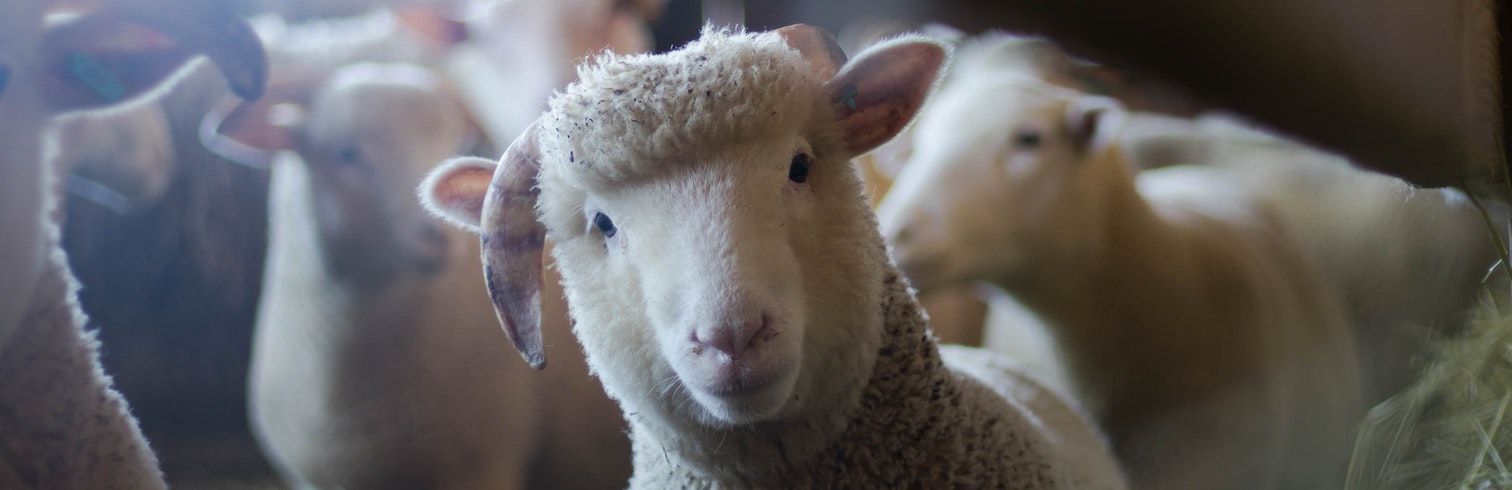
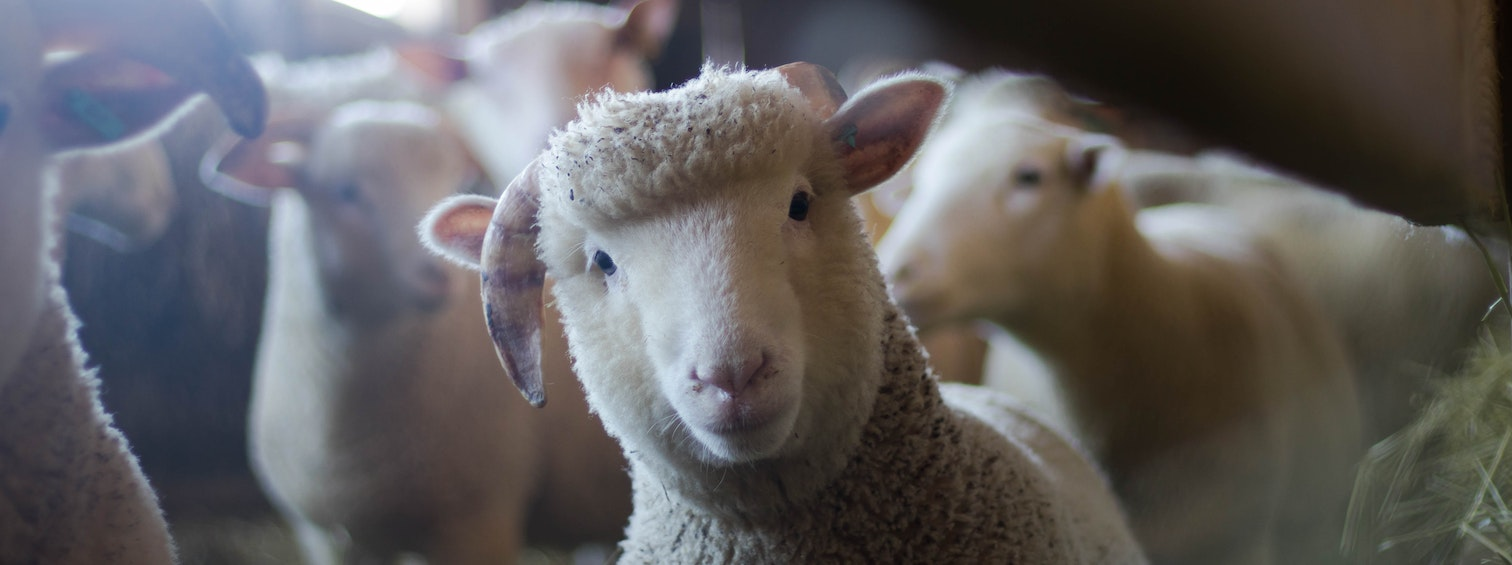
registerformulier opgemaakt, labels en error melding van styling voorzien. Grote aangepast, zodat het goed leesbaar is.

diff --git a/src/pages/register/Register.jsx b/src/pages/register/Register.jsx
@@ -3,102 +3,105 @@ import styles from './Register.module.css';
 import RegisterInput from '../../components/RegisterInput/RegisterInput';
 import {useForm} from 'react-hook-form';
 import registerImgSheep from '../../assets/register-sheep-pexels-trinity-kubassek-288621.jpg'
+// add noValidate to form, to remove default error messages
 
-
-const Register = (props) => {
+const Register = () => {
     const {register, handleSubmit, reset, watch, formState: {errors}} = useForm();
     const password = useRef({}); // it returns an object called current
     password.current = watch("password", " ");
 
-    const onSubmit = (data) =>{
+    const onSubmit = (data) => {
         console.log(data);
         reset();
     };
 
     return (
         <>
-            <div>
-                <div>
+            <div className={styles.registerOuterContainer}>
+                <div className={styles.registerInnerContainer}>
                     <div>
-            <h1>Registreren</h1></div>
+                        <h1 className={styles.registerTitel}>Registreren</h1></div>
                     <div>
-            <p>Wil je favorieten verzen opslaan? Registreer dan je persoonlijke Jubilee account</p></div>
-                    <div>
-            <form onSubmit={handleSubmit(onSubmit)}>
-                <RegisterInput
-                    id="name"
-                    name="name"
-                    type="text"
-                    placeholder="Naam:"
-                    errors={errors}
-                    register={register}
-                    validationSchema={{
-                        required: "Naam is vereist"
-                    }}
-                    required
-                />
-                <RegisterInput
-                    id="email"
-                    name="email"
-                    type="email"
-                    placeholder="Email:"
-                    errors={errors}
-                    register={register}
-                    validationSchema={{
-                        required: "Email is vereist",
-                        pattern:{
-                            value: /^(([^<>()\[\]\\.,;:\s@"]+(\.[^<>()\[\]\\.,;:\s@"]+)*)|(".+"))@((\[[0-9]{1,3}\.[0-9]{1,3}\.[0-9]{1,3}\.[0-9]{1,3}])|(([a-zA-Z\-0-9]+\.)+[a-zA-Z]{2,}))$/,
-                            message:"Een geldig emailadres is vereist"
-                        }
-                    }}
-                    required
-                />
-                <RegisterInput
-                    id="password"
-                    name="password"
-                    type="password"
-                    placeholder="Wachtwoord:"
-                    errors={errors}
-                    register={register}
-                    validationSchema={{
-                        required: "Wachtwoord is vereist",
-                        pattern:{
-                            value: /^(?=.*[A-Z])(?=.*\d)(?=.*[@$!%*?&])[A-Za-z\d@$!%*?&]{8,}$/,
-                            message:"Het wachtwoord bevat minimaal 8 tekens, waarvan 1 hoofdletter, 1 getal en 1 leesteken"
-                        },
-                        minLength: {
-                            value: 8,
-                            message: "Voer minimaal 8 tekens in"
-                        }
-                    }}
-                    required
-                />
-                <RegisterInput
-                    id="confirmpassword"
-                    name="confirmpassword"
-                    type="password"
-                    placeholder="Bevestig wachtwoord:"
-                    errors={errors}
-                    register={register}
-                    validationSchema={{
-                        required:{
-                          value: true,
-                        },
-                        validate: value =>
-                            value === password.current,
-                            message: "De wachtwoorden komen niet overeen",
-                    }}
-                    required
-                />
-                <div>
-                    <button type="submit" className={styles.registerButton}>Registreren</button>
-                </div>
-            </form>
+                        <p className={styles.registerTekst}>Wil je favorieten verzen opslaan? Registreer dan je
+                            persoonlijke Jubilee account</p></div>
+                    <div  className={styles.registerformOuterContainer}>
+                    <div className={styles.registerformInnerContainer}>
+                        <form onSubmit={handleSubmit(onSubmit)} noValidate>
+                            <RegisterInput
+                                id="name"
+                                name="name"
+                                type="text"
+                                placeholder="Naam:"
+                                errors={errors}
+                                register={register}
+                                validationSchema={{
+                                    required: "Naam is vereist"
+                                }}
+                                required
+                            />
+                            <RegisterInput
+                                id="email"
+                                name="email"
+                                type="email"
+                                placeholder="Email:"
+                                errors={errors}
+                                register={register}
+                                validationSchema={{
+                                    required: "Email is vereist",
+                                    pattern: {
+                                        value: /^(([^<>()\[\]\\.,;:\s@"]+(\.[^<>()\[\]\\.,;:\s@"]+)*)|(".+"))@((\[[0-9]{1,3}\.[0-9]{1,3}\.[0-9]{1,3}\.[0-9]{1,3}])|(([a-zA-Z\-0-9]+\.)+[a-zA-Z]{2,}))$/,
+                                        message: "Een geldig emailadres is vereist"
+                                    }
+                                }}
+                                required
+                            />
+                            <RegisterInput
+                                id="password"
+                                name="password"
+                                type="password"
+                                placeholder="Wachtwoord:"
+                                errors={errors}
+                                register={register}
+                                validationSchema={{
+                                    required: "Wachtwoord is vereist",
+                                    pattern: {
+                                        value: /^(?=.*[A-Z])(?=.*\d)(?=.*[@$!%*?&])[A-Za-z\d@$!%*?&]{8,}$/,
+                                        message: "Het wachtwoord bevat minimaal 8 tekens, waarvan 1 hoofdletter, 1 getal en 1 leesteken"
+                                    },
+                                    minLength: {
+                                        value: 8,
+                                        message: "Voer minimaal 8 tekens in"
+                                    }
+                                }}
+                                required
+                            />
+                            <RegisterInput
+                                id="confirmpassword"
+                                name="confirmpassword"
+                                type="password"
+                                placeholder="Bevestig wachtwoord:"
+                                errors={errors}
+                                register={register}
+                                validationSchema={{
+                                    required: {
+                                        value: true,
+                                    },
+                                    validate: value =>
+                                        value === password.current,
+                                    message: "De wachtwoorden komen niet overeen",
+                                }}
+                                required
+                            />
+                            <div className={styles.registerButtonContainer}>
+                                <button type="submit" className={styles.registerButton}>Registreren</button>
+                            </div>
+                        </form>
                     </div>
                 </div>
             </div>
+            </div>
             <div>
-                <img className={styles.registerImg} src={registerImgSheep} alt="Afbeelding van een Schaap" />
+                <img className={styles.registerImg} src={registerImgSheep} alt="Afbeelding van een Schaap"/>
             </div>
         </>
     );

diff --git a/src/pages/register/Register.module.css b/src/pages/register/Register.module.css
@@ -1,0 +1,105 @@
+
+.registerButtonContainer{
+    display: flex;
+    justify-content: center;
+    text-align: center;
+    padding: 20px 30px;
+}
+
+.registerButton{
+    display: flex;
+    flex-direction: row;
+    justify-content: center;
+    background-color: #062948;
+    color: #f7f0f0;
+    text-transform: uppercase;
+    font-size: 14px;
+    font-family: 'Inter', sans-serif;
+    letter-spacing: 1px;
+    border: #860E0E;
+    padding: 8px 24px;
+    margin: 60px 10px 10px 10px;
+    border-radius: 10px;
+    box-shadow: 2px 5px 9px rgba(0, 0, 0, 0.2);
+}
+
+.registerButton:focus, .registerButton:hover{
+    display: flex;
+    flex-direction: row;
+    justify-content: center;
+    background-color: #860E0E;
+    text-transform: uppercase;
+    font-size: 14px;
+    font-family: 'Inter', sans-serif;
+    letter-spacing: 1px;
+    border: #062948;
+    padding: 8px 24px;
+    margin: 60px 10px 10px 10px;
+    border-radius: 10px;
+    box-shadow: 2px 5px 9px rgba(0, 0, 0, 0.5);
+}
+
+.registerInput{
+    display: flex;
+    flex-direction: column;
+    padding: 6px 20px;
+    margin: 5px 10px;
+}
+
+.registerOuterContainer{
+    display: flex;
+    flex-direction: row;
+    justify-content: center;
+    background-color: #062948;
+}
+
+.registerInnerContainer{
+    width: 80%;
+    padding: 50px 50px;
+    margin: 120px 120px;
+    background-color: #f7f0f0;
+}
+.registerformOuterContainer{
+    display: flex;
+    flex-direction: column;
+    align-items: center;
+}
+
+.registerformInnerContainer{
+    display: flex;
+    flex-direction: column;
+    align-items: center;
+}
+
+.registerTitel{
+    display: flex;
+    flex-direction: row;
+    justify-content: center;
+    padding: 20px 10px;
+    color: #002855;
+    font-size: 45px;
+    font-family: 'Inter', sans-serif;
+    font-weight: bold;
+}
+
+.registerTekst{
+    display: flex;
+    flex-direction: row;
+    justify-content: center;
+    padding: 20px 15px;
+    color: #002855;
+    font-size: 25px;
+    font-family: 'Inter', sans-serif;
+    text-align: center;
+    line-height: 50px;
+}
+
+.registerImg{
+    box-sizing: border-box;
+    display: block;
+    height: auto;
+    padding-bottom: 75px;
+    margin-bottom: 40px;
+    width: 100%;
+    max-width: 100%;
+}

diff --git a/src/components/RegisterInput/RegisterInput.jsx b/src/components/RegisterInput/RegisterInput.jsx
@@ -1,14 +1,16 @@
 import React from 'react';
+import styles from '../RegisterInput/RegisterInput.module.css';
 
-const RegisterInput = ({name, label, required, type, placeholder, validationSchema, styles, errors, register }) => {
+
+const RegisterInput = ({name, label, required, type, placeholder, validationSchema, errors, register }) => {
     return (
         <>
-            <div className="form-control-input">
+            <div className={styles.registerForminput}>
             <label htmlFor={name}>
                 {label}
-                {required && "*"}
+                {required}
             </label>
-            <input
+            <input className={styles.registerFormInputTekst}
                 id={name}
                 name={name}
                 type={type}
@@ -16,13 +18,13 @@ const RegisterInput = ({name, label, required, type, placeholder, validationSche
                 {...register(name, validationSchema)}
             />
                 {errors && errors[name]?.type === "required" && (
-                    <span className="error">{errors[name]?.message}</span>
+                    <span className={styles.errorsTekst}>{errors[name]?.message}</span>
                 )}
                 {errors && errors[name]?.type === "pattern" && (
-                    <span className="error">{errors[name]?.message}</span>
+                    <span className={styles.errorsTekst}>{errors[name]?.message}</span>
                 )}
                 {errors && errors[name]?.type === "minLength" && (
-                    <span className="error">{errors[name]?.message}</span>
+                    <span className={styles.errorsTekst}>{errors[name]?.message}</span>
                 )}
             </div>
         </>

diff --git a/src/components/RegisterInput/RegisterInput.module.css b/src/components/RegisterInput/RegisterInput.module.css
@@ -1,0 +1,17 @@
+.registerForminput{
+    display: flex;
+    flex-direction: column;
+    justify-content: center;
+    width: 800px;
+}
+
+.registerFormInputTekst{
+    font-size: 20px;
+    padding: 13px;
+    margin: 14px;
+
+}
+.errorsTekst{
+    color: #860E0E;
+    font-size: 14px;
+}
